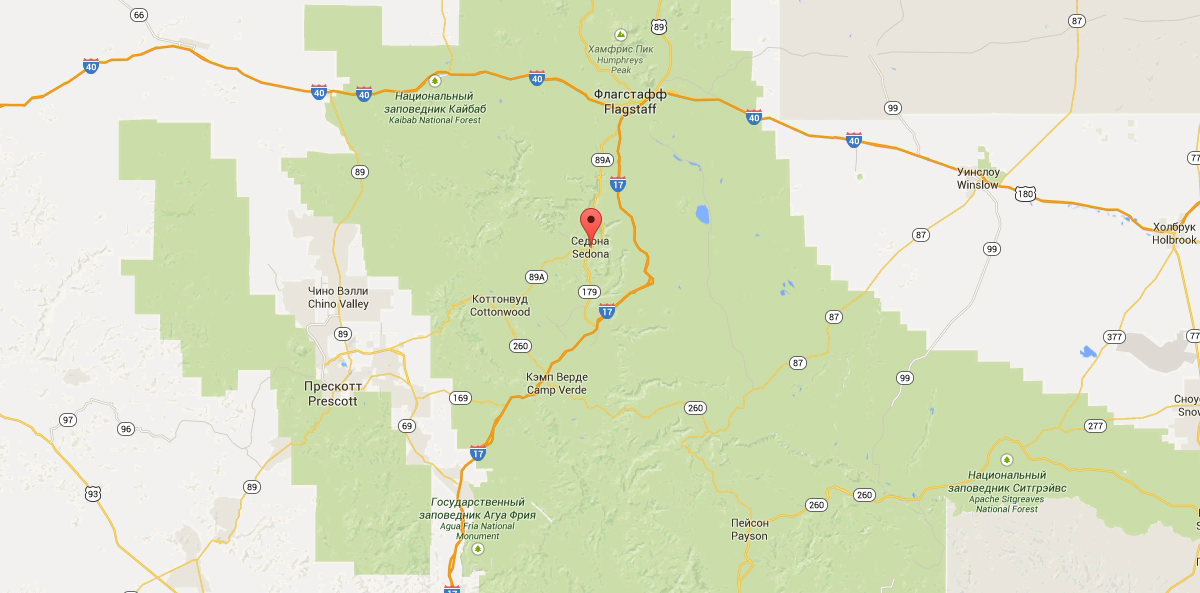
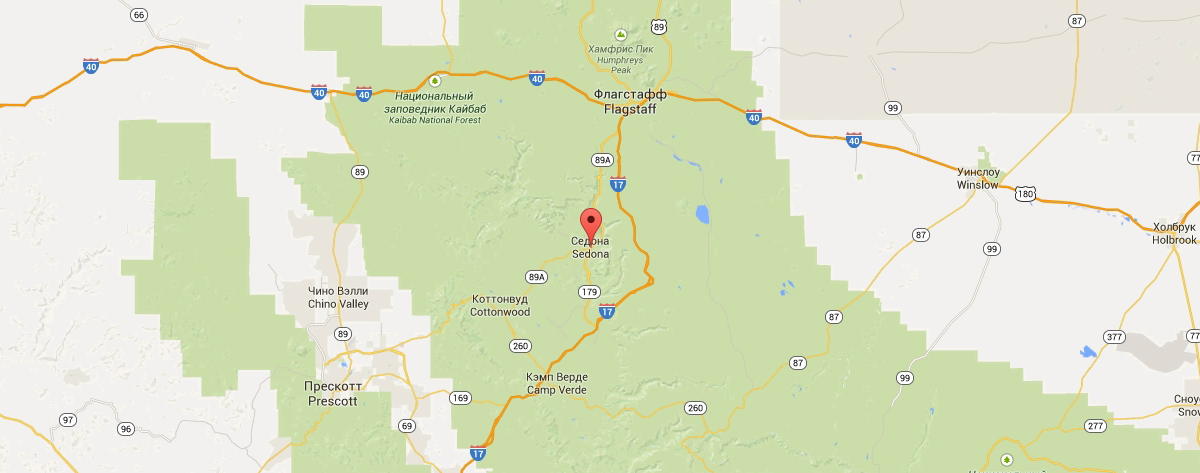
сетка на флексах для index.hrml

diff --git a/index.html b/index.html
@@ -11,33 +11,45 @@
     <header class='main-header'>
       <nav class='main-navigation'>
         <ul class='site-navigation'>
-          <li><a href='info.html'>Информация</a></li>
-          <li><a href='photo-video.html'>Фото и Видео</a></li>
-          <li><a href='state-map.html'>Карта Штата</a></li>
-          <li><a href='hotels.html'>Гостиницы</a></li>
+          <div>
+            <li><a href='info.html'>Информация</a></li>
+            <li><a href='photo-video.html'>Фото и Видео</a></li>
+          </div>
+          <div>
+            <li><a href='state-map.html'>Карта Штата</a></li>
+            <li><a href='hotels.html'>Гостиницы</a></li>
+          </div>
         </ul>
       </nav>
       <div class='intro-logo'>
-        <img src='img/intro.jpg' width='1200' height='574' alt='SEDONA Canyon Logo'>
+        <img src='img/intro.jpg' width='1200' height='513' alt='SEDONA Canyon Logo'>
       </div>
     </header>
     <main>
       <section class='sedona-pros-section'>
         <h2 class='visually-hidden'>Five reasons to visit Sedona</h2>
-        <p class='promo-text'>
-          <b>СЕДОНА — небольшой городок в АРИЗОНЕ,<br>
-             зАСЛУЖИвающий большего!</b>
-        </p>
-        <p class='promo-text'>
-          Рассмотрим 5 причин, по которым Седона круче, чем Гранд Каньон!
-        </p>
+        <div class='promo-text-section'>
+          <p class='promo-text'>
+            <b>СЕДОНА — небольшой городок в АРИЗОНЕ,<br>
+               зАСЛУЖИвающий большего!</b>
+          </p>
+          <p class='promo-text'>
+            Рассмотрим 5 причин, по которым Седона круче, чем Гранд Каньон!
+          </p>
+
+        </div>
         <ul class='sedona-pros-list'>
           <li>
-            <h3>Настоящий городок</h3>
-            <span class='pro-order-number'>№1</span>
-            <p>Седона — Не аттракцион для туристов, там течет своя жизнь</p>
-            <img src='img/sedona-town.jpg' width='800' height='256' alt='Город Sedona'>
-            <ul>
+            <div class='first-pro'>
+              <div class='pro-text-group'>
+                  <h3>Настоящий<br> городок</h3>
+                  <span class='pro-order-number'>№1</span>
+                  <p>Седона — Не аттракцион для туристов,<br> там течет своя жизнь</p>
+              </div>
+              <img src='img/sedona-town.jpg' width='800' height='256' alt='Город Sedona'>
+            </div>
+
+            <ul class='sedona-pros-sublist'>
               <li>
                 <h4>Жилье</h4>
                 <p>Рекомендуем пожить в настоящем мотеле, все как в кино!</p>
@@ -53,30 +65,35 @@
             </ul>
           </li>
           <li>
-            <h3>Там есть мост дьявола</h3>
-            <span class='pro-order-number'>№2</span>
-            <p>Да, по нему можно пройти! Если конечно вы осмелитесь</p>
-            <img src='img/devils-bridge.jpg' width='800' height='256' alt='Мост Дьявола'>
+            <div class='second-pro'>
+              <div class='pro-text-group'>
+                <h3>Там есть<br> мост дьявола</h3>
+                <span class='pro-order-number'>№2</span>
+                <p>Да, по нему можно пройти! Если конечно<br> вы осмелитесь</p>
+              </div>
+              <img src='img/devils-bridge.jpg' width='800' height='256' alt='Мост Дьявола'>
+            </div>
           </li>
-          <div>
+          <div class='remaining-pros'>
             <li>
-              <h3>Небольшая площадь</h3>
+              <h3>Небольшая<br> площадь</h3>
               <span class='pro-order-number'>№3</span>
-              <p>Все достопремечательности находятся очень близко</p>
+              <p>Все достопремечательности<br> находятся очень близко</p>
             </li>
             <li>
-              <h3>Красивая дорога</h3>
+              <h3>Красивая<br> дорога</h3>
               <span class='pro-order-number'>№4</span>
-              <p>Ехать в Седону из Лас-Вегаса совсем не скучно!</p>
+              <p>Ехать в Седону из Лас-Вегаса совсем<br> не скучно!</p>
             </li>
             <li>
-              <h3>Мало туристов</h3>
+              <h3>Мало<br> туристов</h3>
               <span class='pro-order-number'>№5</span>
-              <p>Большинство едет в Гранд Каньон и толпится там</p>
+              <p>Большинство едет в Гранд Каньон и<br> толпится там</p>
             </li>
           </div>
         </ul>
       </section>    
+
       <section class='booking-section'>
         <h2 class='visually-hidden'>Hotels booking</h2>
         <b>Заинтерисовались?</b>
@@ -84,10 +101,10 @@
           и мы покажем вам лучшие предложения в Седоне
         </p>
         <button class='big-brown-button'>Поиск гостиницы в Седоне</button>
-        <figure class='google-map'>
-          <img src='img/google-map.jpg' width='1200' height='593' alt='US, Arizona, Sedona. Coordinates: 34°51′36″N 111°47′21″W'>
-        </figure>
       </section>
+      <figure class='google-map'>
+        <img src='img/google-map.jpg' width='1200' height='473' alt='US, Arizona, Sedona. Coordinates: 34°51′36″N 111°47′21″W'>
+      </figure>
     </main>
     <footer class='main-footer'>
       <span class='hashtag'>#VISITSEDONA</span>

diff --git a/css/style.css b/css/style.css
@@ -9,7 +9,7 @@ body {
   color: #333333;
   text-transform: uppercase;
 
-  background-color: white;
+  background-color: #f2f2f2;
 
 }
 
@@ -45,50 +45,157 @@ ul {
   opacity: .3;
 }
 
+.site-navigation {
+  background-color: white;
+  display: flex;
+  justify-content: space-between;
+  min-height: 57px;
+  align-items: center;
+  padding-left: 73px;
+  padding-right: 73px;
+}
+
+.site-navigation > div {
+  display: flex;
+}
+
+
+.site-navigation  li:first-child, .site-navigation > li:last-child {
+  width: 241px;
+}
+.site-navigation  li:last-child {
+  text-align: right;
+}
+
+.intro-logo {
+  height: 513px;
+  width: 1200px;
+  background-color: #a6c6dc;
+}
+
+main {
+  background-color: #ffffff;
+}
+
+
 
 .promo-text {
+  margin: 0;
+  background-color: #ffffff;
+
   text-align: center;
+}
+
+.promo-text-section {
+  min-height: 212px;
+  display: flex;
+  flex-direction: column;
+  justify-content: flex-end;
+
+}
+
+.promo-text-section > p:last-child {
+  margin-bottom: 57px;
+  margin-top: 30px;
 }
 
 .promo-text b {
   font-size: 21px;
   font-weight: bold;
+
+  margin: 0;
 }
 
 .sedona-pros-list {
+  text-align: center;
+}
+
+.first-pro, .second-pro {
+  display: flex;
   background-color: #81b3d2;
   color: #ffffff;
 }
 
-.sedona-pros-list ul {
-  background-color: #ffffff;
-  color: #333333;
+.second-pro > div {
+  order: 3;
 }
 
-.sedona-pros-list h4 {
-  color: #000000;
+.pro-text-group {
+  flex-grow: 1;
+  display: flex;
+  flex-direction: column;
+  align-items: center;
+  justify-content: space-between;
+
+  padding-top: 44px;
+  padding-bottom: 60px;
+}
+
+.pro-text-group p {
+  margin: 0;
+}
+
+.sedona-pros-sublist {
+  color: #333333;
+  
+  background-color: #ffffff;
+  display: flex;
+  align-items: flex-end;
+  padding-bottom: 85px;
+  min-height: 330px;
+  box-sizing: border-box;
+}
+.sedona-pros-sublist p {
+  margin: 0;
 }
 
 .sedona-pros-list h3, .sedona-pros-list h4 {
   font-size: 21px;
   font-weight: bold;
+
+  margin: 0;
 }
 
 .pro-order-number::before, .pro-order-number::after {
   content: '—'
 }
 
-.sedona-pros-list div {
-  background-color: #eeeeee;
+.remaining-pros {
   color: #333333;
+
+  background-color: #eeeeee;;
+  box-sizing: border-box;
+  display: flex;
+  align-items: flex-end;
+  min-height: 256px;
+
+  padding-top: 45px;
+  padding-bottom: 62px;
 }
 
-.sedona-pros-list div h3 {
-  color: #000000;
+.remaining-pros p {
+  margin: 0;
 }
+
+.remaining-pros li {
+  width: 400px;
+}
+
+
 
 .booking-section {
   text-align: center;
+  box-sizing: border-box;
+  min-height: 291px;
+  padding-top: 55px;
+  display: flex;
+  flex-direction: column;
+  align-items: center;
+  justify-content: space-between;
+}
+.booking-section p {
+  margin: 0;
+  padding-bottom: 15px
 }
 .booking-section b {
   font-size: 24px;
@@ -120,6 +227,18 @@ ul {
 .google-map {
   margin: 0;
   padding: 0;
+
+  height: 473px;
+}
+
+.main-footer {
+  min-height: 120px;
+  background: #ffffff;
+  display: flex;
+  align-items: center;
+  padding-left: 72px;
+  padding-right: 72px;
+  justify-content: space-between;
 }
 
 .booking-form {
